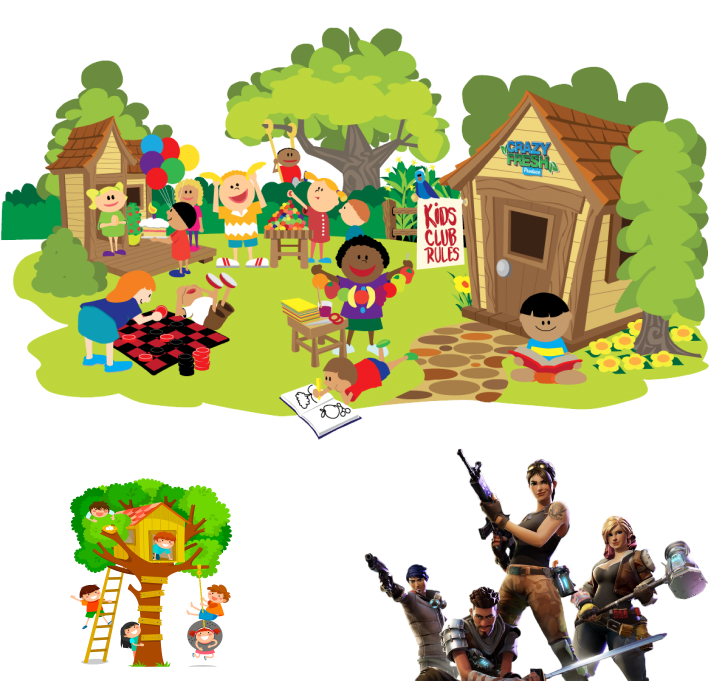
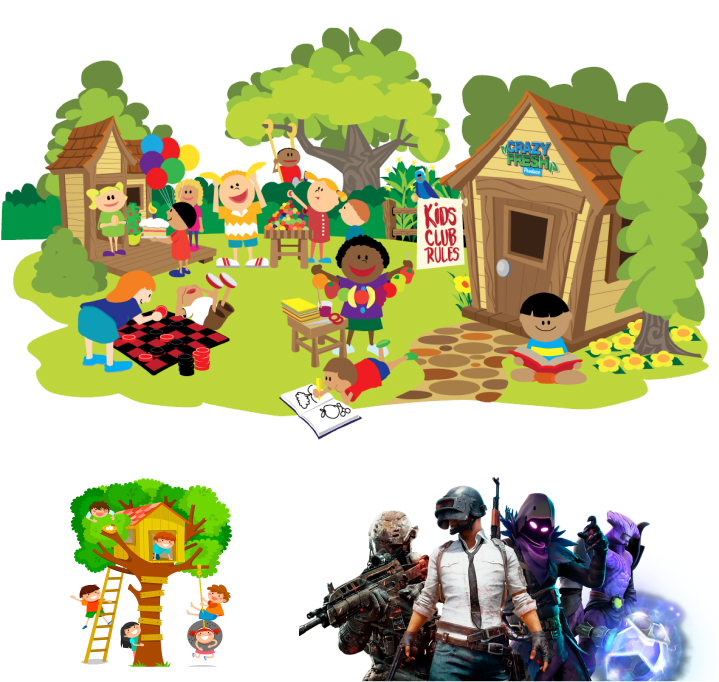
added hero section

diff --git a/assets/css/style.css b/assets/css/style.css
@@ -17,11 +17,14 @@
   --white: #fff;
   --black: #000;
   --pink-medium: #ff42a5;
+  --pink-hover: #f32b92;
   --purple: #8758f1;
   --blue: #4ec5f7;
+  --blue-hover: #27b4f1;
   --dark-purple: #534c64;
   --gradient: linear-gradient(180deg, #f948b2 0%, #8758f1 100%);
   --dark-gray: rgba(11, 2, 35, 0.1);
+  --dark-gray-hover: rgba(11, 2, 35, 0.15);
   /* font-size */
   --h1-size: 6rem;
   --h2-size: 3rem;
@@ -32,7 +35,7 @@
   /* others */
   --section-padding: 120px;
   --container: 1440px;
-  --primary-btn-padding: 1.3rem 2.5rem;
+  --primary-btn-padding: 0.875rem 2rem;
 }
 
 /* --- default stlings --- */
@@ -93,6 +96,7 @@ a {
   outline: none;
   cursor: pointer;
   border-radius: 31.25rem;
+  transition: all 0.1s ease-in-out;
 }
 .btn-blue {
   padding: var(--primary-btn-padding);
@@ -105,6 +109,7 @@ a {
   outline: none;
   cursor: pointer;
   border-radius: 31.25rem;
+  transition: all 0.1s ease-in-out;
 }
 .btn-white {
   padding: var(--primary-btn-padding);
@@ -117,6 +122,7 @@ a {
   outline: none;
   cursor: pointer;
   border-radius: 31.25rem;
+  transition: all 0.1s ease-in-out;
 }
 .section-padding {
   padding-block: var(--section-padding);
@@ -135,9 +141,11 @@ a {
 #navbar {
   position: sticky;
   top: 0;
-  box-shadow: 0 0.25rem 1.875rem 0 rgba(0, 0, 0, 0.05);
+  box-shadow: 0 0.25rem 1.875rem 0 rgba(0, 0, 0, 0.02);
   border-bottom: 1px solid rgba(0, 0, 0, 0.05);
   padding: 1.6rem;
+  z-index: 1000;
+  background-color: var(--white);
 }
 .nav-container {
   justify-content: space-between;
@@ -160,5 +168,41 @@ a {
   gap: 1rem;
   background-color: var(--dark-gray);
   padding: 1rem 1.5rem;
-  border-radius: .5rem;
+  border-radius: 0.5rem;
+}
+.nav-btn:hover {
+  background-color: var(--dark-gray-hover);
+}
+/* ---------------------------
+    Hero section styling
+--------------------------- */
+#hero-section {
+  background-image: url("../img/Group\ 14.png");
+  background-repeat: no-repeat;
+  background-position: left center;
+  background-size: contain;
+}
+.hero-container {
+  justify-content: space-between;
+}
+.hero-content > h2 {
+  text-transform: uppercase;
+  background: none;
+  background-clip: initial;
+  -webkit-background-clip: initial;
+  -webkit-text-fill-color: initial;
+}
+.hero-content ul {
+  margin-top: 1.5rem;
+  margin-bottom: 2.5rem;
+}
+.hero-content ul li {
+  gap: 0.7rem;
+  color: #534c64;
+}
+.hero-btn > .btn-blue:hover {
+  background-color: var(--blue-hover);
+}
+.hero-btn > .btn-pink:hover {
+  background-color: var(--pink-hover);
 }

diff --git a/index.html b/index.html
@@ -44,13 +44,45 @@
     <!----------------------------
       Hero section
   ----------------------------->
-    <header id="hero-section"></header>
+    <header id="hero-section">
+      <div class="hero-container container flex section-padding">
+        <!-- left side -->
+        <div class="hero-content">
+          <h2>play like the</h2>
+          <h1>G.O.A.T.</h1>
+          <ul>
+            <li class="flex">
+              <img src="assets/img/icons/Frame.svg" alt="" />
+              <h3>1-Click Instant Play</h3>
+            </li>
+            <li class="flex">
+              <img src="assets/img/icons/Frame-1.svg" alt="" />
+              <h3>No Download</h3>
+            </li>
+            <li class="flex">
+              <img src="assets/img/icons/Frame-2.svg" alt="" />
+              <h3>1000s of supported online games</h3>
+            </li>
+          </ul>
+          <div class="hero-btn">
+            <button class="btn-pink">sign in</button>
+            <button class="btn-blue">go rogue</button>
+          </div>
+        </div>
+        <!-- right side -->
+        <div class="hero-img">
+          <img src="assets/img/Group 18.png" alt="" />
+        </div>
+      </div>
+    </header>
 
     <main>
       <!----------------------------
           we are gamer sectino
       ----------------------------->
-      <section id="community-section"></section>
+      <section id="community-section">
+        
+      </section>
       <!----------------------------
           online games section
       ----------------------------->
